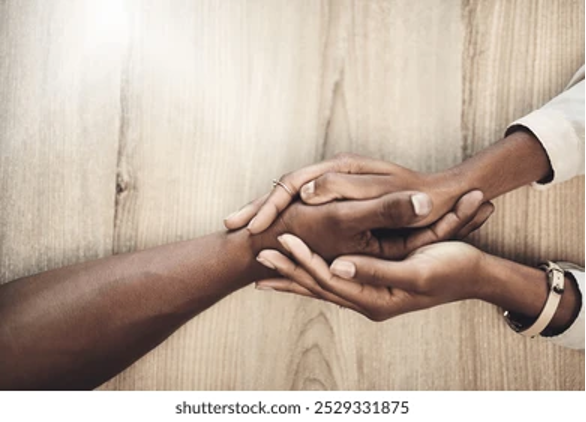
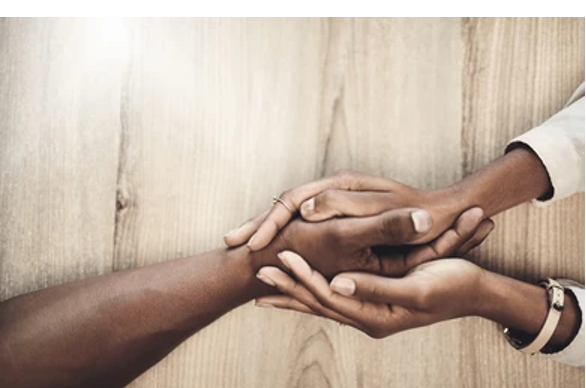
Restyle hero, expand service details, and clean up footer/images
- Hero: swap eyebrow/heading sizing, render heading in cursive; fix
  global h1-h4 rule being unlayered so utility fonts can override it
- Services: drop "Who It's For" line, expand Psychotherapy/Coaching/
  Consulting intros, show full descriptions per modality
- Footer: drop cursive styling on tagline, set to white
- Crop watermark strip from Psychotherapy photo
- Fix Header background utility syntax for Tailwind v4

diff --git a/src/lib/content.ts b/src/lib/content.ts
@@ -95,29 +95,31 @@ export const serviceCategories: ServiceCategory[] = [
     image: "/Picture2.png",
     items: [
       {
-        title: "Individual Therapy",
+        title: "Individual",
         badge: "Individual",
         description:
-          "One-on-one, 50-minute sessions to explore patterns, build resilience, and work through what's weighing on you.",
+          "Provides a confidential and collaborative space to explore personal challenges, increase self-awareness, and develop healthier ways of coping and relating.",
         tags: ["Anxiety & Depression", "Trauma", "Life Transitions"],
       },
       {
-        title: "Couples Therapy",
-        badge: "Couples",
-        description: "60-minute sessions focused on communication, trust, and reconnecting with your partner.",
-        tags: ["Communication", "Trust & Intimacy", "Conflict Resolution"],
+        title: "Relational",
+        badge: "Relational",
+        description:
+          "A therapeutic space for two or more individuals to improve communication, strengthen understanding, and work through relational challenges in a supportive environment. This service may include friends, colleagues, or other non-romantic relationships seeking healthier interaction and connection.",
+        tags: ["Communication", "Connection", "Conflict Resolution"],
       },
       {
-        title: "Family Therapy",
+        title: "Family",
         badge: "Family",
         description:
-          "60-minute sessions to navigate family dynamics and strengthen relationships across every stage of life.",
+          "Supporting families in improving communication, strengthening relationships, and navigating challenges together. Sessions focus on understanding patterns within the family system, addressing conflict, increasing connection, and developing healthier ways of interacting. Family therapy may be helpful during periods of transition, behavioral concerns, parenting challenges, or ongoing relational stress.",
         tags: ["Parent-Child Relations", "Blended Families", "Family Conflict"],
       },
       {
-        title: "Group Therapy",
+        title: "Group",
         badge: "Group",
-        description: "80-minute group sessions offering shared support and steady accountability.",
+        description:
+          "Closed group therapy provides a supportive and confidential therapeutic environment where a small group of individuals begin and progress through treatment together over a set period of time. This format promotes trust, consistency, deeper connection, and meaningful personal growth as members build insight and learn from shared experiences.",
         tags: ["Shared Support", "Accountability"],
       },
     ],
@@ -200,33 +202,30 @@ export type ServiceAccordionEntry = {
   id: "psychotherapy" | "consultation" | "coaching";
   title: string;
   intro: string;
-  whoItsFor: string;
-  includes: string[];
+  includes: ServiceItem[];
 };
 
 export const serviceAccordion: ServiceAccordionEntry[] = [
   {
     id: "psychotherapy",
     title: "Psychotherapy",
-    intro: homeServices.find((service) => service.id === "psychotherapy")!.body,
-    whoItsFor:
-      "Individuals, couples, families, and groups navigating anxiety, depression, trauma, relationship challenges, or major life transitions.",
-    includes: serviceCategories.find((category) => category.id === "psychotherapy")!.items.map((item) => item.title),
+    intro:
+      "We provide evidence-based psychotherapy services tailored to your unique needs, including individual, relational, family, and group therapy. Our approach is grounded in cultural responsiveness, recognizing and honoring the diverse identities, values, and lived experiences that shape each person's journey. Through a collaborative, whole-person approach, we coordinate with your other healthcare providers and support systems to promote seamless, integrative care and foster meaningful, lasting healing.",
+    includes: serviceCategories.find((category) => category.id === "psychotherapy")!.items,
   },
   {
     id: "consultation",
     title: "Consulting",
-    intro: homeServices.find((service) => service.id === "consultation")!.body,
-    whoItsFor: "Providers, organizations, and teams looking to build more culturally responsive, sustainable systems of care.",
-    includes: serviceCategories.find((category) => category.id === "consultation")!.items.map((item) => item.title),
+    intro:
+      "We provide thoughtful, culturally responsive consulting and training designed to strengthen clinical practice, support organizational wellness, and foster healthier, more inclusive environments. Services include clinical consultation, cultural responsiveness training, workshops, speaking engagements, and tailored wellness programming for organizations.",
+    includes: serviceCategories.find((category) => category.id === "consultation")!.items,
   },
   {
     id: "coaching",
     title: "Coaching",
-    intro: homeServices.find((service) => service.id === "coaching")!.body,
-    whoItsFor:
-      "Individuals and professionals seeking a future-focused space to clarify goals, navigate transitions, and build confidence. Coaching is not a substitute for psychotherapy or mental health treatment.",
-    includes: serviceCategories.find((category) => category.id === "coaching")!.items.map((item) => item.title),
+    intro:
+      "Life coaching is a collaborative, strengths-based process designed to help you clarify goals, navigate life transitions, build confidence, and create meaningful, lasting change. Through a culturally responsive and mindfulness-informed approach, we support personal and professional growth while helping you align your actions with your values. Coaching is future-focused and is not a substitute for psychotherapy or mental health treatment.",
+    includes: serviceCategories.find((category) => category.id === "coaching")!.items,
   },
 ];
 

diff --git a/src/components/ServicesAccordion.tsx b/src/components/ServicesAccordion.tsx
@@ -39,17 +39,15 @@ export function ServicesAccordion({ entries }: { entries: ServiceAccordionEntry[
                   <div className="max-w-2xl text-ark-deep/80">
                     <p className="leading-relaxed">{entry.intro}</p>
 
-                    <p className="mt-5">
-                      <span className="font-semibold text-ark-deep">Who It&apos;s For: </span>
-                      {entry.whoItsFor}
-                    </p>
-
                     <p className="mt-5 font-semibold text-ark-deep">What&apos;s Included:</p>
-                    <ul className="mt-2 space-y-1.5">
+                    <ul className="mt-2 space-y-3">
                       {entry.includes.map((item) => (
-                        <li key={item} className="flex gap-2">
+                        <li key={item.title} className="flex gap-2">
                           <span aria-hidden>&bull;</span>
-                          <span>{item}</span>
+                          <span>
+                            <span className="font-semibold text-ark-deep">{item.title}: </span>
+                            {item.description}
+                          </span>
                         </li>
                       ))}
                     </ul>

diff --git a/src/components/Header.tsx b/src/components/Header.tsx
@@ -19,7 +19,7 @@ export function Header() {
   }, [open]);
 
   return (
-    <header className="sticky top-0 z-50 border-b border-ark-deep/10 bg-[var(--background)]/90 backdrop-blur">
+    <header className="sticky top-0 z-50 border-b border-ark-deep/10 bg-(--background)/90 backdrop-blur">
       <div className="mx-auto flex max-w-6xl items-center justify-between px-6 py-4 lg:px-10">
         <Link href="/" className="flex items-center">
           <Image src={arkLogo} alt={businessName} className="h-10 w-auto sm:h-12" preload />
@@ -69,7 +69,7 @@ export function Header() {
       </div>
 
       <div
-        className={`overflow-hidden border-t border-ark-deep/10 bg-[var(--background)] transition-[max-height] duration-300 md:hidden ${
+        className={`overflow-hidden border-t border-ark-deep/10 bg-background transition-[max-height] duration-300 md:hidden ${
           open ? "max-h-96" : "max-h-0"
         }`}
       >

diff --git a/src/app/page.tsx b/src/app/page.tsx
@@ -18,8 +18,10 @@ export default function HomePage() {
 
         <Container className="grid items-center gap-12 py-24 lg:grid-cols-2 lg:py-32">
           <div className="flex flex-col items-start gap-8">
-            <p className="text-sm font-semibold tracking-widest text-ark-deep/70 uppercase">{hero.eyebrow}</p>
-            <h1 className="font-display text-4xl leading-[1.1] font-medium text-ark-deep sm:text-5xl lg:text-6xl">
+            <p className="font-display text-4xl leading-[1.1] font-medium text-ark-deep sm:text-5xl lg:text-6xl">
+              {hero.eyebrow}
+            </p>
+            <h1 className="font-cursive text-2xl leading-snug text-ark-deep/80 sm:text-3xl lg:text-4xl">
               {hero.heading}
             </h1>
             <div className="flex flex-col gap-4 sm:flex-row">

diff --git a/src/components/Footer.tsx b/src/components/Footer.tsx
@@ -10,7 +10,7 @@ export function Footer() {
             <p className="max-w-xs font-display text-3xl leading-snug text-ark-cream italic">
               Rooted in compassion. Culturally responsive.
             </p>
-            <p className="mt-3 max-w-xs font-cursive text-lg leading-relaxed text-ark-cream/70">
+            <p className="mt-3 max-w-xs text-sm leading-relaxed text-white">
               Honoring your story through evidence-based and integrative care that cultivates healing.
             </p>
           </div>

diff --git a/src/app/globals.css b/src/app/globals.css
@@ -38,12 +38,14 @@ body {
   font-family: var(--font-work-sans), sans-serif;
 }
 
-h1,
-h2,
-h3,
-h4 {
-  font-family: var(--font-fraunces), serif;
-  letter-spacing: -0.01em;
+@layer base {
+  h1,
+  h2,
+  h3,
+  h4 {
+    font-family: var(--font-fraunces), serif;
+    letter-spacing: -0.01em;
+  }
 }
 
 .no-scrollbar {
